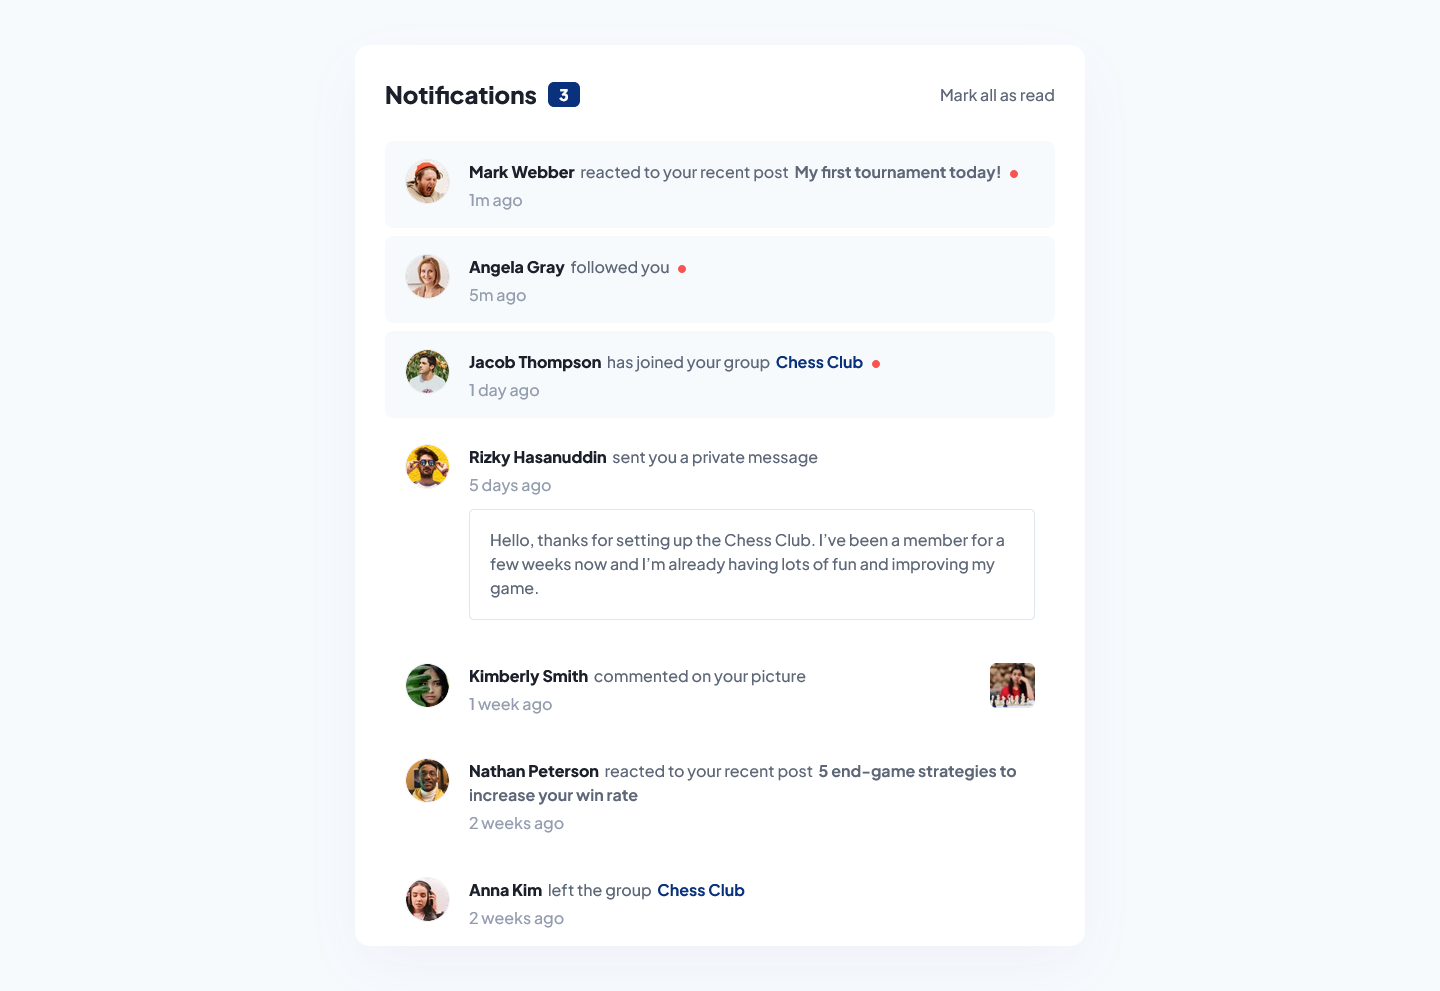
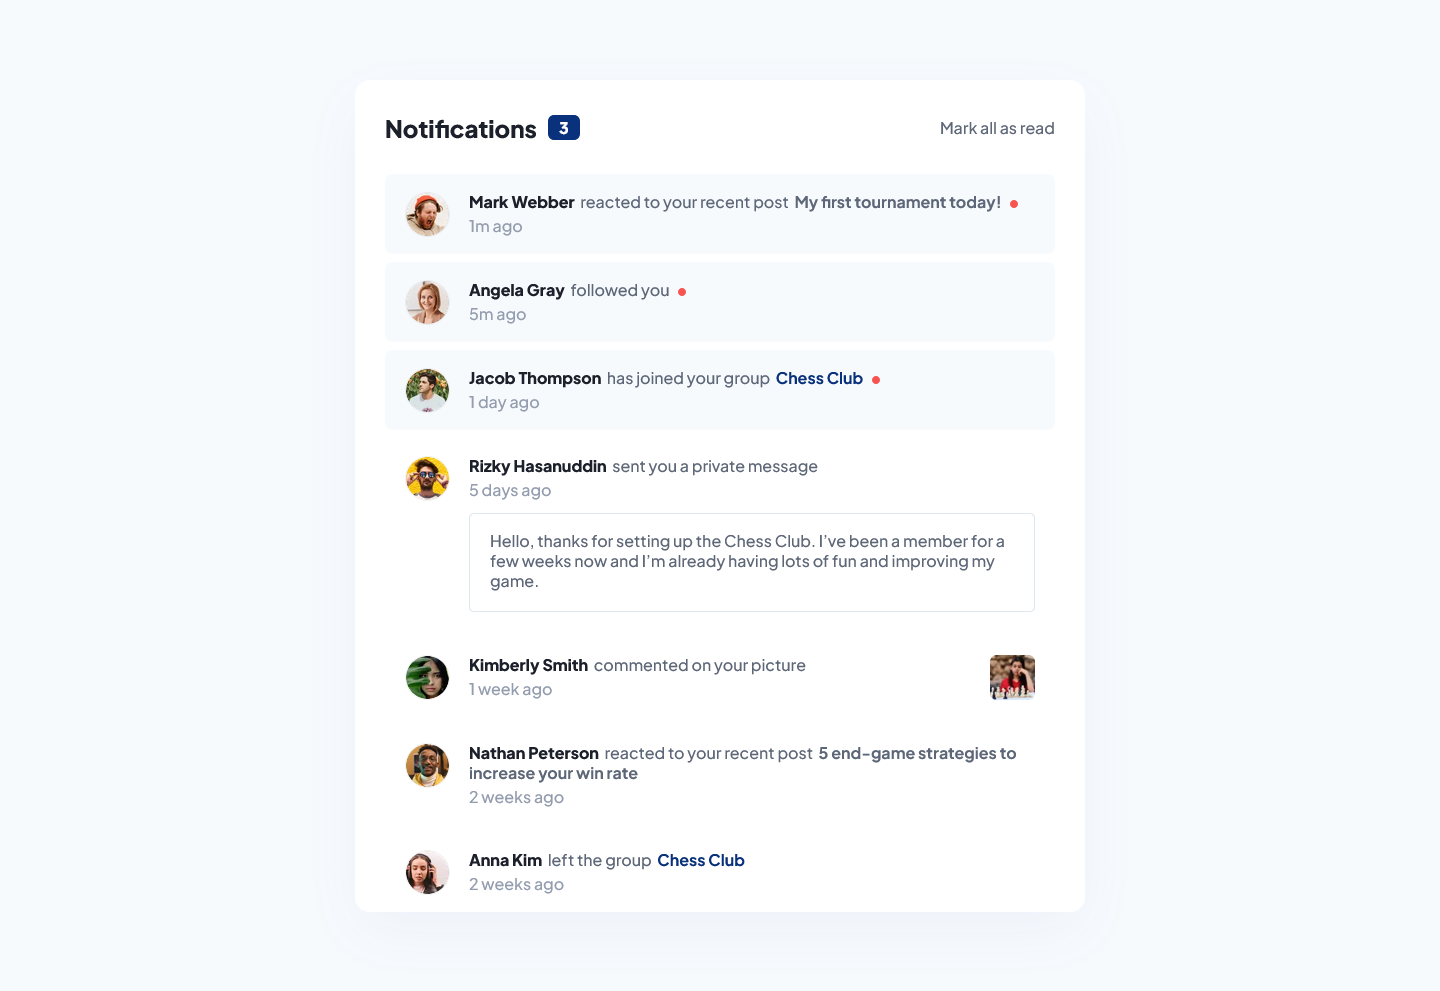
fix line height and update screenshot

diff --git a/index.html b/index.html
@@ -22,17 +22,17 @@
       <header class="mb-[31px] flex items-center justify-between">
         <div class="flex items-center gap-[9px] md:gap-[11px]">
           <h1
-            class="text-xl font-extrabold leading-none text-very-dark-blue lg:text-2xl"
+            class="text-xl font-extrabold leading-tight text-very-dark-blue lg:text-2xl lg:leading-tight"
           >
             Notifications
           </h1>
           <div
-            class="flex h-[25px] w-8 items-center justify-center rounded-md bg-blue font-extrabold leading-none text-white"
+            class="flex h-[25px] w-8 items-center justify-center rounded-md bg-blue font-extrabold leading-tight text-white lg:leading-tight"
             id="unread-count"
           ></div>
         </div>
         <button
-          class="cursor-pointer text-sm font-medium leading-none text-dark-grayish-blue transition-colors hover:text-blue md:text-base"
+          class="cursor-pointer text-sm font-medium leading-tight text-dark-grayish-blue transition-colors hover:text-blue md:text-base lg:leading-tight"
           id="btn-mark-all"
         >
           Mark all as read
@@ -51,7 +51,7 @@
           />
           <div class="flex flex-col gap-[3px] md:gap-1">
             <h2
-              class="heading-unread text-sm font-medium text-dark-grayish-blue md:text-base"
+              class="heading-unread text-sm font-medium leading-tight text-dark-grayish-blue md:text-base lg:leading-tight"
             >
               <span
                 class="cursor-pointer font-extrabold text-very-dark-blue transition-colors hover:text-blue"
@@ -61,7 +61,9 @@
                 >My first tournament today!</span
               >
             </h2>
-            <p class="text-sm font-medium text-grayish-blue md:text-base">
+            <p
+              class="text-sm font-medium leading-tight text-grayish-blue md:text-base lg:leading-tight"
+            >
               1m ago
             </p>
           </div>
@@ -79,14 +81,16 @@
           />
           <div class="flex flex-col gap-[3px] md:gap-1">
             <h2
-              class="heading-unread text-sm font-medium text-dark-grayish-blue md:text-base"
+              class="heading-unread text-sm font-medium leading-tight text-dark-grayish-blue md:text-base lg:leading-tight"
             >
               <span
                 class="cursor-pointer font-extrabold text-very-dark-blue transition-colors hover:text-blue"
                 >Angela Gray</span
               >&nbsp;&nbsp;followed you
             </h2>
-            <p class="text-sm font-medium text-grayish-blue md:text-base">
+            <p
+              class="text-sm font-medium leading-tight text-grayish-blue md:text-base lg:leading-tight"
+            >
               5m ago
             </p>
           </div>
@@ -104,7 +108,7 @@
           />
           <div class="flex flex-col gap-[3px] md:gap-1">
             <h2
-              class="heading-unread text-sm font-medium text-dark-grayish-blue md:text-base"
+              class="heading-unread text-sm font-medium leading-tight text-dark-grayish-blue md:text-base lg:leading-tight"
             >
               <span
                 class="cursor-pointer font-extrabold text-very-dark-blue transition-colors hover:text-blue"
@@ -114,7 +118,9 @@
                 >Chess Club</span
               >
             </h2>
-            <p class="text-sm font-medium text-grayish-blue md:text-base">
+            <p
+              class="text-sm font-medium leading-tight text-grayish-blue md:text-base lg:leading-tight"
+            >
               1 day ago
             </p>
           </div>
@@ -131,17 +137,21 @@
             class="size-[39px] rounded-full border border-black/5 md:size-[45px]"
           />
           <div class="flex flex-col gap-[3px] md:gap-1">
-            <h2 class="text-sm font-medium text-dark-grayish-blue md:text-base">
+            <h2
+              class="text-sm font-medium leading-tight text-dark-grayish-blue md:text-base lg:leading-tight"
+            >
               <span
                 class="cursor-pointer font-extrabold text-very-dark-blue transition-colors hover:text-blue"
                 >Rizky Hasanuddin</span
               >&nbsp;&nbsp;sent you a private message
             </h2>
-            <p class="text-sm font-medium text-grayish-blue md:text-base">
+            <p
+              class="text-sm font-medium leading-tight text-grayish-blue md:text-base lg:leading-tight"
+            >
               5 days ago
             </p>
             <div
-              class="mt-[9px] rounded-[5px] border border-light-grayish-blue-2 bg-white p-4 text-sm font-medium text-dark-grayish-blue transition-colors hover:bg-light-grayish-blue-1 md:p-5 md:pt-[17px] md:text-base"
+              class="mt-[9px] rounded-[5px] border border-light-grayish-blue-2 bg-white p-4 text-sm font-medium leading-tight text-dark-grayish-blue transition-colors hover:bg-light-grayish-blue-1 md:p-5 md:pt-[17px] md:text-base lg:leading-tight"
             >
               Hello, thanks for setting up the Chess Club. I’ve been a member
               for a few weeks now and I’m already having lots of fun and
@@ -163,14 +173,16 @@
             />
             <div class="flex flex-col gap-[3px] md:gap-1">
               <h2
-                class="text-sm font-medium text-dark-grayish-blue md:text-base"
+                class="text-sm font-medium leading-tight text-dark-grayish-blue md:text-base lg:leading-tight"
               >
                 <span
                   class="cursor-pointer font-extrabold text-very-dark-blue transition-colors hover:text-blue"
                   >Kimberly Smith</span
                 >&nbsp;&nbsp;commented on your picture
               </h2>
-              <p class="text-sm font-medium text-grayish-blue md:text-base">
+              <p
+                class="text-sm font-medium leading-tight text-grayish-blue md:text-base lg:leading-tight"
+              >
                 1 week ago
               </p>
             </div>
@@ -193,7 +205,9 @@
             class="size-[39px] rounded-full border border-black/5 md:size-[45px]"
           />
           <div class="flex flex-col gap-[3px] md:gap-1">
-            <h2 class="text-sm font-medium text-dark-grayish-blue md:text-base">
+            <h2
+              class="text-sm font-medium leading-tight text-dark-grayish-blue md:text-base lg:leading-tight"
+            >
               <span
                 class="cursor-pointer font-extrabold text-very-dark-blue transition-colors hover:text-blue"
                 >Nathan Peterson</span
@@ -202,7 +216,9 @@
                 >5 end-game strategies to increase your win rate</span
               >
             </h2>
-            <p class="text-sm font-medium text-grayish-blue md:text-base">
+            <p
+              class="text-sm font-medium leading-tight text-grayish-blue md:text-base lg:leading-tight"
+            >
               2 weeks ago
             </p>
           </div>
@@ -219,7 +235,9 @@
             class="size-[39px] rounded-full border border-black/5 md:size-[45px]"
           />
           <div class="flex flex-col gap-[3px] md:gap-1">
-            <h2 class="text-sm font-medium text-dark-grayish-blue md:text-base">
+            <h2
+              class="text-sm font-medium leading-tight text-dark-grayish-blue md:text-base lg:leading-tight"
+            >
               <span
                 class="cursor-pointer font-extrabold text-very-dark-blue transition-colors hover:text-blue"
                 >Anna Kim</span
@@ -228,7 +246,9 @@
                 >Chess Club</span
               >
             </h2>
-            <p class="text-sm font-medium text-grayish-blue md:text-base">
+            <p
+              class="text-sm font-medium leading-tight text-grayish-blue md:text-base lg:leading-tight"
+            >
               2 weeks ago
             </p>
           </div>

diff --git a/src/output.css b/src/output.css
@@ -615,10 +615,6 @@ html {
   display: grid;
 }
 
-.hidden{
-  display: none;
-}
-
 .size-\[39px\]{
   width: 39px;
   height: 39px;
@@ -775,6 +771,10 @@ html {
   line-height: 1;
 }
 
+.leading-tight{
+  line-height: 1.25;
+}
+
 .text-blue{
   --tw-text-opacity: 1;
   color: hsl(219 85% 26% / var(--tw-text-opacity, 1));
@@ -927,5 +927,13 @@ html {
   .lg\:text-2xl{
     font-size: 1.5rem;
     line-height: 2rem;
+  }
+
+  .lg\:leading-none{
+    line-height: 1;
+  }
+
+  .lg\:leading-tight{
+    line-height: 1.25;
   }
 }
